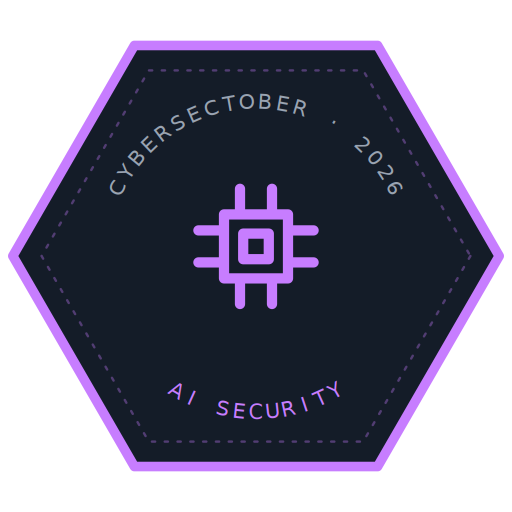
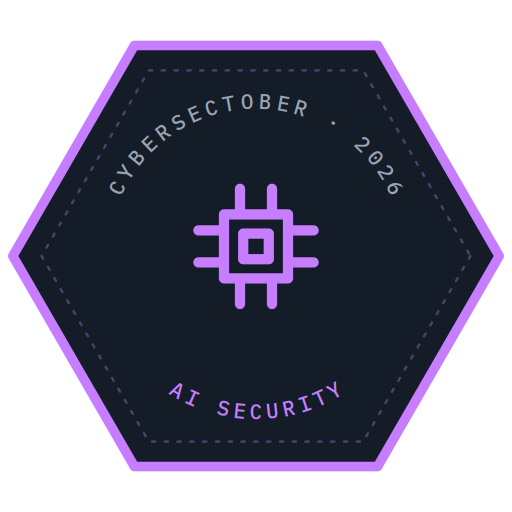
Use official badge cards in README and re-render badges in IBM Plex Mono

diff --git a/README.md b/README.md
@@ -65,10 +65,10 @@ Contribute to any track, any week.
 ## 🎖 Badges
 
 <table>
-<tr><td align="center" width="25%"><img src="badges/first-contribution.png" width="110" alt="First Contribution badge"><br><sub><b>First Contribution</b></sub></td><td align="center" width="25%"><img src="badges/security-contributor.png" width="110" alt="Security Contributor badge"><br><sub><b>Security Contributor</b></sub></td><td align="center" width="25%"><img src="badges/security-builder.png" width="110" alt="Security Builder badge"><br><sub><b>Security Builder</b></sub></td><td align="center" width="25%"><img src="badges/security-champion.png" width="110" alt="Security Champion badge"><br><sub><b>Security Champion</b></sub></td></tr>
-<tr><td align="center" width="25%"><img src="badges/cyber-guardian.png" width="110" alt="Cyber Guardian badge"><br><sub><b>Cyber Guardian</b></sub></td><td align="center" width="25%"><img src="badges/awareness-advocate.png" width="110" alt="Awareness Advocate badge"><br><sub><b>Awareness Advocate</b></sub></td><td align="center" width="25%"><img src="badges/signal-booster.png" width="110" alt="Signal Booster badge"><br><sub><b>Signal Booster</b></sub></td><td align="center" width="25%"><img src="badges/awareness-ambassador.png" width="110" alt="Awareness Ambassador badge"><br><sub><b>Awareness Ambassador</b></sub></td></tr>
-<tr><td align="center" width="25%"><img src="badges/community-defender.png" width="110" alt="Community Defender badge"><br><sub><b>Community Defender</b></sub></td><td align="center" width="25%"><img src="badges/ai-security-pioneer.png" width="110" alt="AI Security Pioneer badge"><br><sub><b>AI Security Pioneer</b></sub></td><td align="center" width="25%"><img src="badges/api-defender.png" width="110" alt="API Defender badge"><br><sub><b>API Defender</b></sub></td><td align="center" width="25%"><img src="badges/lab-builder.png" width="110" alt="Lab Builder badge"><br><sub><b>Lab Builder</b></sub></td></tr>
-<tr><td align="center" width="25%"><img src="badges/open-source-mentor.png" width="110" alt="Open Source Mentor badge"><br><sub><b>Open Source Mentor</b></sub></td><td align="center" width="25%"><img src="badges/cybersectober-champion.png" width="110" alt="CyberSecTOBER Champion badge"><br><sub><b>CyberSecTOBER Champion</b></sub></td></tr>
+<tr><td align="center" width="25%"><img src="badges/cards/first-contribution.jpg" width="170" alt="First Contribution badge"></td><td align="center" width="25%"><img src="badges/cards/security-contributor.jpg" width="170" alt="Security Contributor badge"></td><td align="center" width="25%"><img src="badges/cards/security-builder.jpg" width="170" alt="Security Builder badge"></td><td align="center" width="25%"><img src="badges/cards/security-champion.jpg" width="170" alt="Security Champion badge"></td></tr>
+<tr><td align="center" width="25%"><img src="badges/cards/cyber-guardian.jpg" width="170" alt="Cyber Guardian badge"></td><td align="center" width="25%"><img src="badges/cards/awareness-advocate.jpg" width="170" alt="Awareness Advocate badge"></td><td align="center" width="25%"><img src="badges/cards/signal-booster.jpg" width="170" alt="Signal Booster badge"></td><td align="center" width="25%"><img src="badges/cards/awareness-ambassador.jpg" width="170" alt="Awareness Ambassador badge"></td></tr>
+<tr><td align="center" width="25%"><img src="badges/cards/community-defender.jpg" width="170" alt="Community Defender badge"></td><td align="center" width="25%"><img src="badges/cards/ai-security-pioneer.jpg" width="170" alt="AI Security Pioneer badge"></td><td align="center" width="25%"><img src="badges/cards/api-defender.jpg" width="170" alt="API Defender badge"></td><td align="center" width="25%"><img src="badges/cards/lab-builder.jpg" width="170" alt="Lab Builder badge"></td></tr>
+<tr><td align="center" width="25%"><img src="badges/cards/open-source-mentor.jpg" width="170" alt="Open Source Mentor badge"></td><td align="center" width="25%"><img src="badges/cards/cybersectober-champion.jpg" width="170" alt="CyberSecTOBER Champion badge"></td></tr>
 </table>
 
 ## 🛡 Safety first

diff --git a/badges/README.md b/badges/README.md
@@ -1,3 +1,8 @@
 # Badges
 
-Badge images and assets for contributor recognition. See the README for the full list of tiers and specialty badges.
+Badge images and assets for contributor recognition. See the main README for the full list of tiers and specialty badges.
+
+- `cards/` — the official badge cards (badge, level, name and description), shown in the main README
+- `*.png` — the badge on its own (512×512), for GitHub profile READMEs and avatars
+- `svg/` — the same badges as SVG, generated by `scripts/make_badges.py`
+- `share-card-template.jpg` — the wide "[YOUR NAME] earned the…" card for LinkedIn and X
